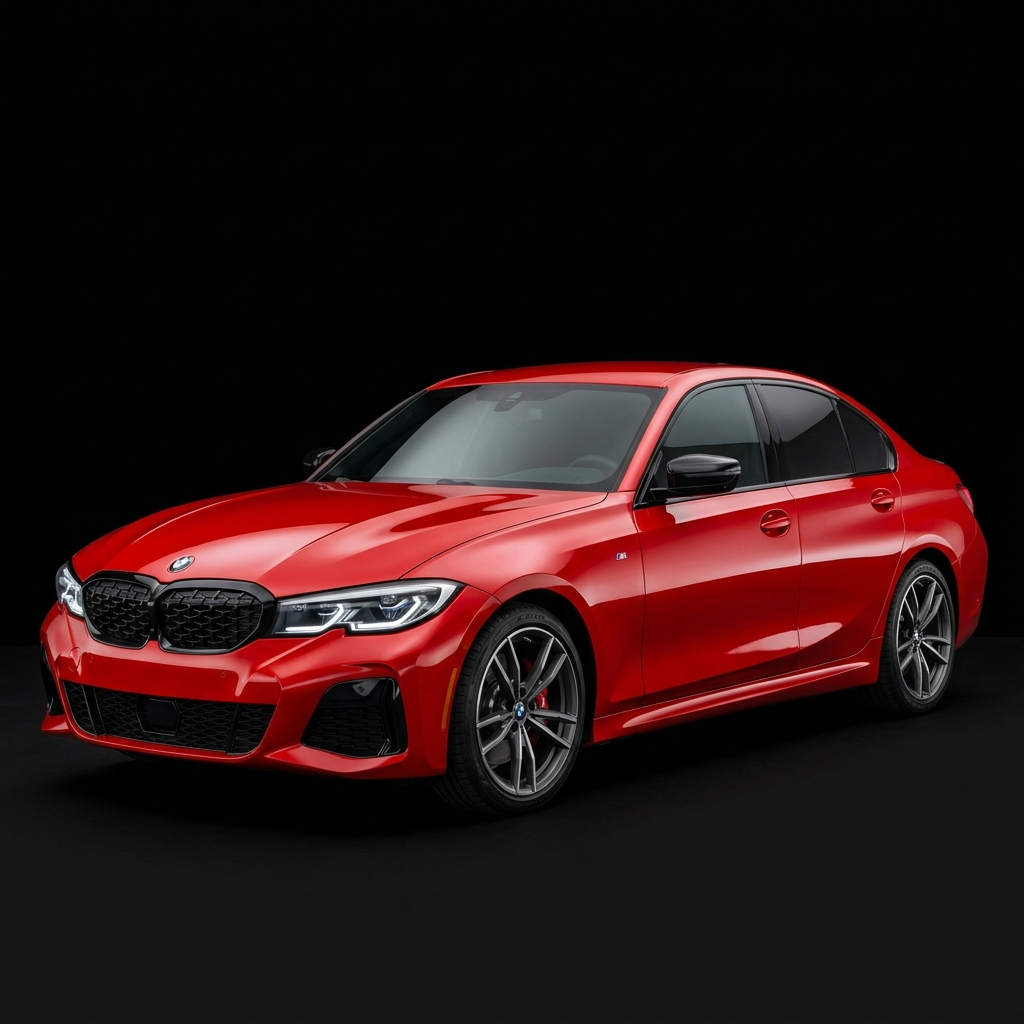
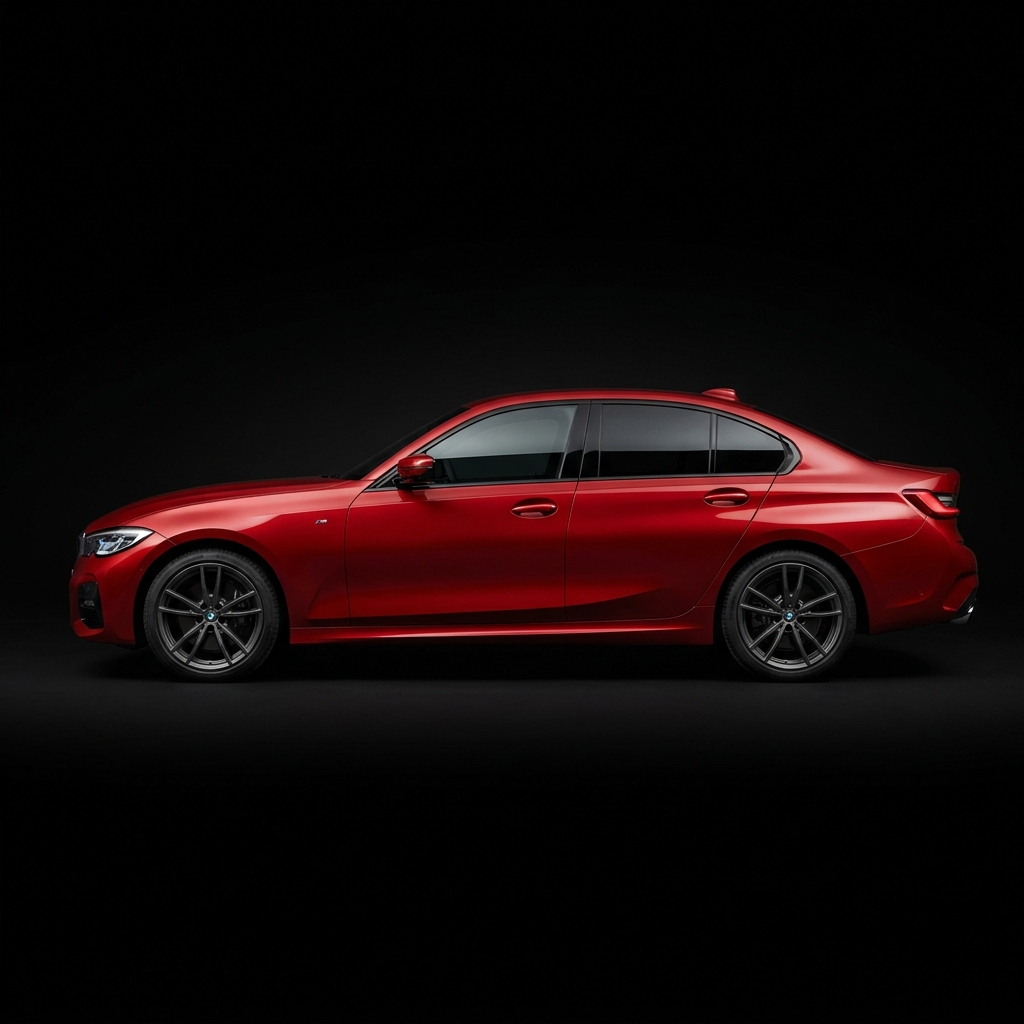
fifth commit

Changed region(s): [[0.0312, 0.3438, 0.9688, 0.7812]]

diff --git a/style.css b/style.css
@@ -1741,9 +1741,15 @@ section {
 .swatches-grid {
     display: flex;
     gap: 16px;
+    flex-wrap: wrap;
 }
 
 .swatch-btn {
+    -webkit-appearance: none;
+    -moz-appearance: none;
+    appearance: none;
+    display: inline-block;
+    flex-shrink: 0;
     width: 44px;
     height: 44px;
     border-radius: 50%;